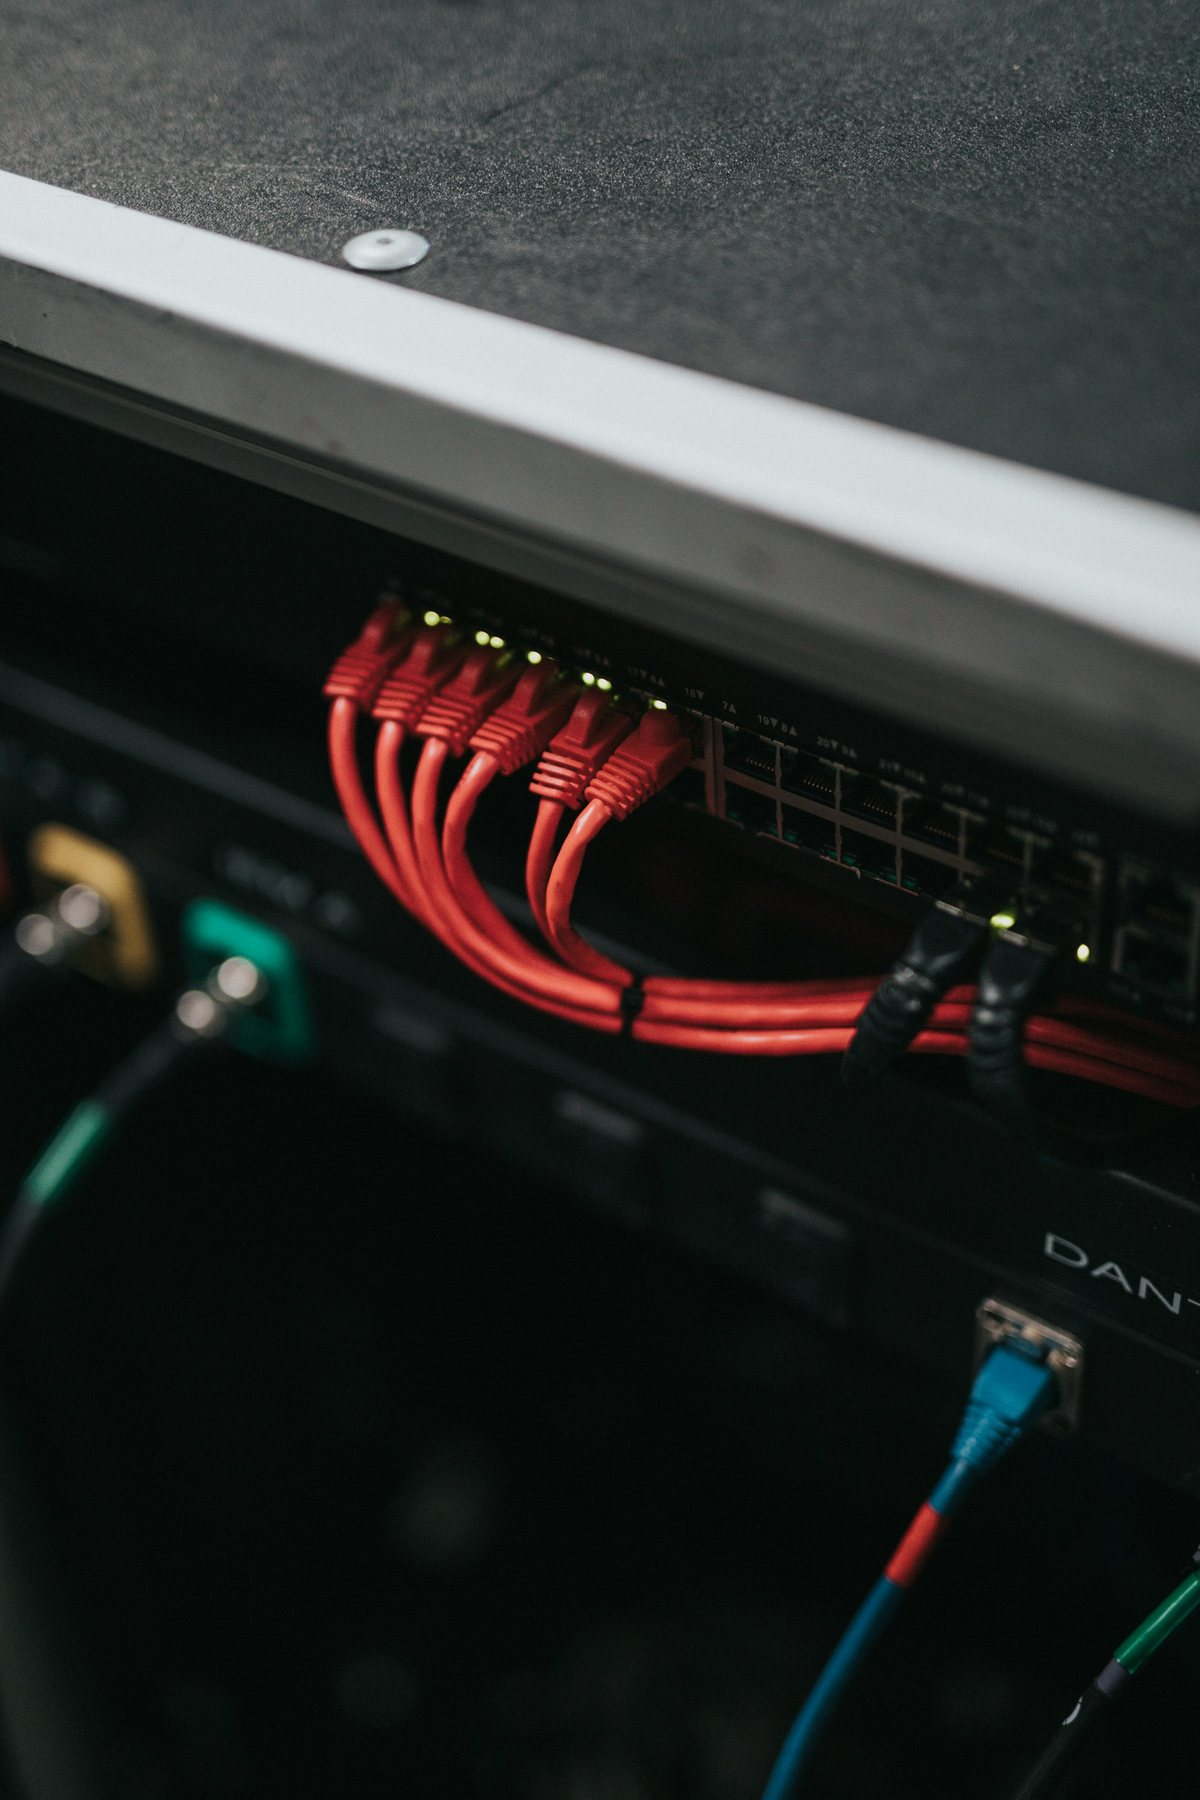
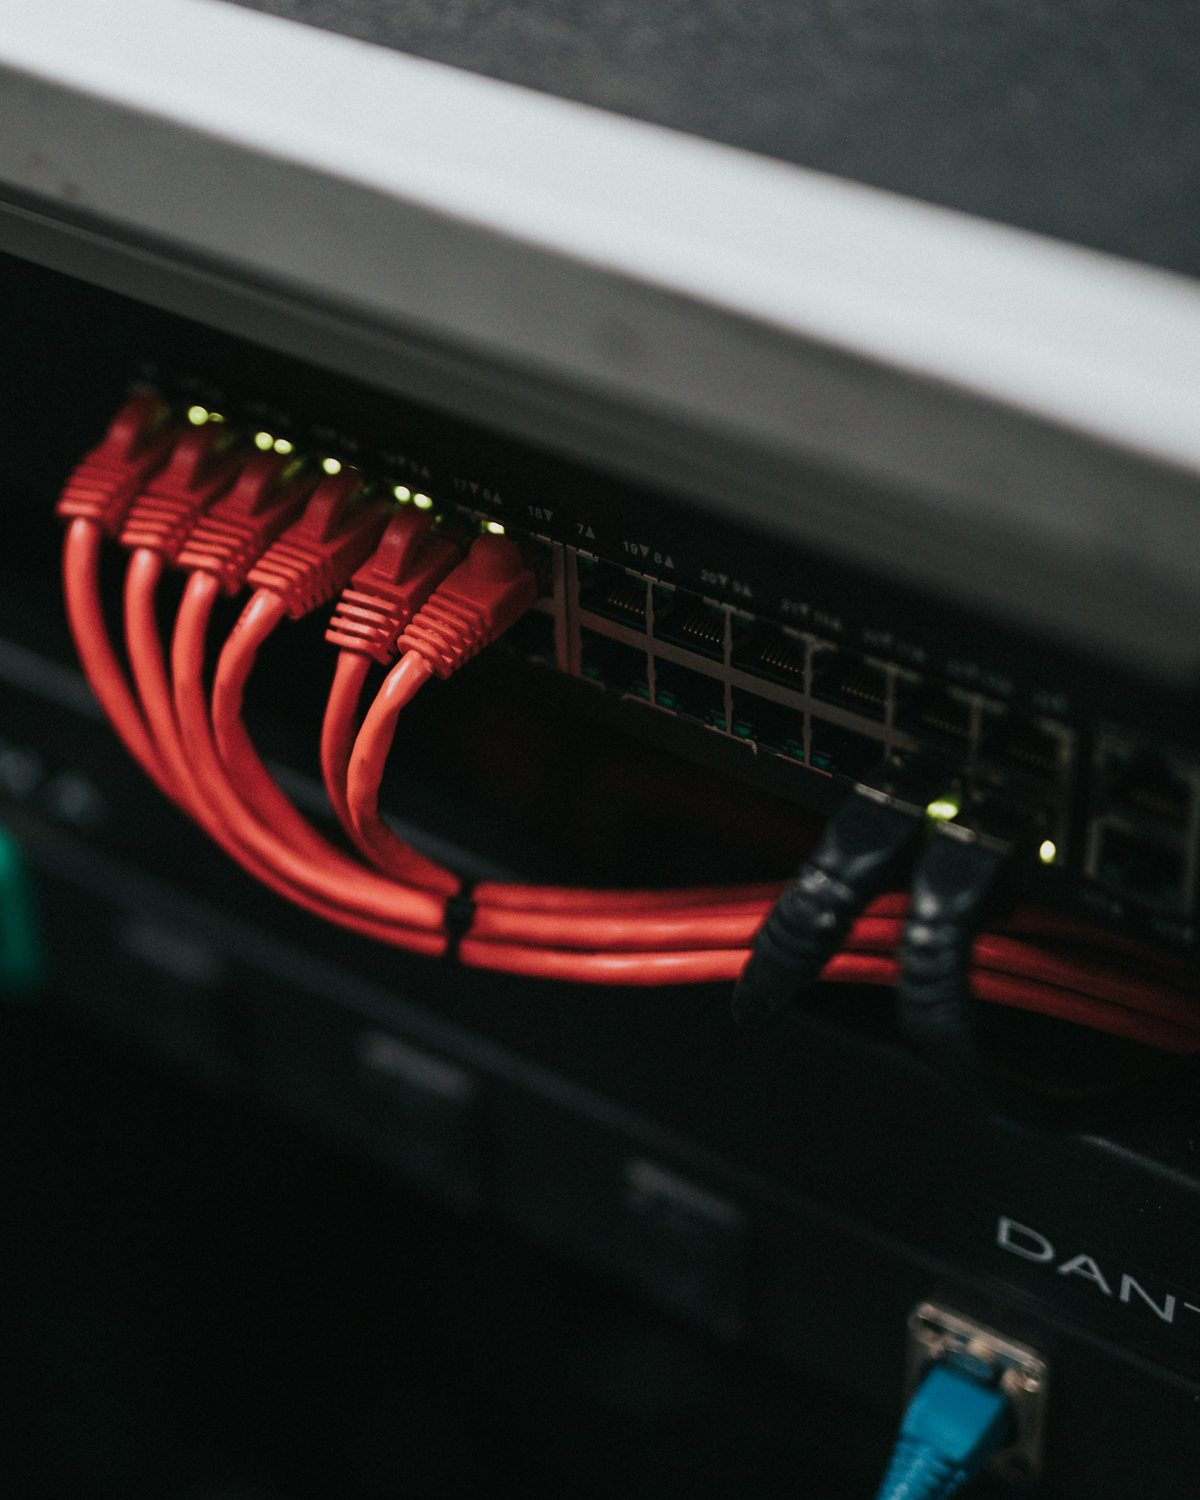
Crop hero tighter on the red cables, show it first on small screens
- Hero image cropped to 4:5 around the red patch cables
- Tablets and phones: photo moves above the headline as a wide banner,
  so the first screen isn't just the background color

Claude-Session: https://claude.ai/code/session_014iLxbuJVAFom3juek7y5Hr

diff --git a/css/styles.css b/css/styles.css
@@ -185,7 +185,7 @@ strong { color: var(--ink); font-weight: 650; }
 .hero .call a { color: #fff; font-weight: 600; text-decoration: none; }
 .hero .call a:hover { color: var(--cyan); }
 .hero-photo { margin: 0; }
-.hero-photo img { width: 100%; aspect-ratio: 2 / 3; object-fit: cover; border-radius: 10px; }
+.hero-photo img { width: 100%; aspect-ratio: 4 / 5; object-fit: cover; border-radius: 10px; }
 .proof { display: grid; grid-template-columns: repeat(3, 1fr); margin-top: 4.5rem; border-top: 1px solid var(--band-rule); }
 .proof li { display: flex; gap: 0.85rem; align-items: flex-start; padding: 1.6rem 1.5rem 1.8rem 0; }
 .proof li + li { padding-left: 1.5rem; border-left: 1px solid var(--band-rule); }
@@ -363,8 +363,9 @@ a.work:hover { transform: translateY(-3px); box-shadow: var(--shadow); color: in
 /* Responsive */
 @media (max-width: 1000px) {
   .hero-grid, .split, .contact, .svc .wrap, .case .wrap, .about-split { grid-template-columns: 1fr; gap: 2.75rem; }
-  .hero-photo { max-width: 480px; }
-  .hero-photo img { aspect-ratio: 4 / 5; object-position: center 45%; }
+  .hero { padding-top: 2.5rem; }
+  .hero-photo { order: -1; max-width: none; }
+  .hero-photo img { aspect-ratio: 16 / 9; object-position: center 50%; }
   .cards, .stack-list { grid-template-columns: 1fr 1fr; }
   .process { grid-template-columns: 1fr 1fr; row-gap: 2.5rem; }
   .process::before, .packet { display: none; }
@@ -383,7 +384,8 @@ a.work:hover { transform: translateY(-3px); box-shadow: var(--shadow); color: in
   .nav-links a[aria-current="page"] { border-bottom-color: var(--band-rule); color: var(--cyan); }
   .brand { font-size: 0.95rem; }
   .brand img { width: 36px; height: 36px; }
-  .hero { padding-top: 3rem; }
+  .hero { padding-top: 1.5rem; }
+  .hero-photo img { aspect-ratio: 16 / 10; }
 
   .proof { grid-template-columns: 1fr; margin-top: 3.5rem; }
   .proof li, .proof li + li { padding: 1.1rem 0; border-left: 0; }

diff --git a/index.html b/index.html
@@ -43,7 +43,7 @@
         <p class="call" style="margin-top:1.1rem">Rather talk now? Call <a href="tel:+13303475329">(330) 347-5329</a></p>
       </div>
       <figure class="hero-photo">
-        <img src="images/hero-cables.jpg" alt="Red patch cables plugged into a rack-mounted switch" width="1200" height="1800">
+        <img src="images/hero-cables.jpg" alt="Red patch cables plugged into a rack-mounted switch" width="1200" height="1500">
       </figure>
     </div>
     <ul class="proof">
